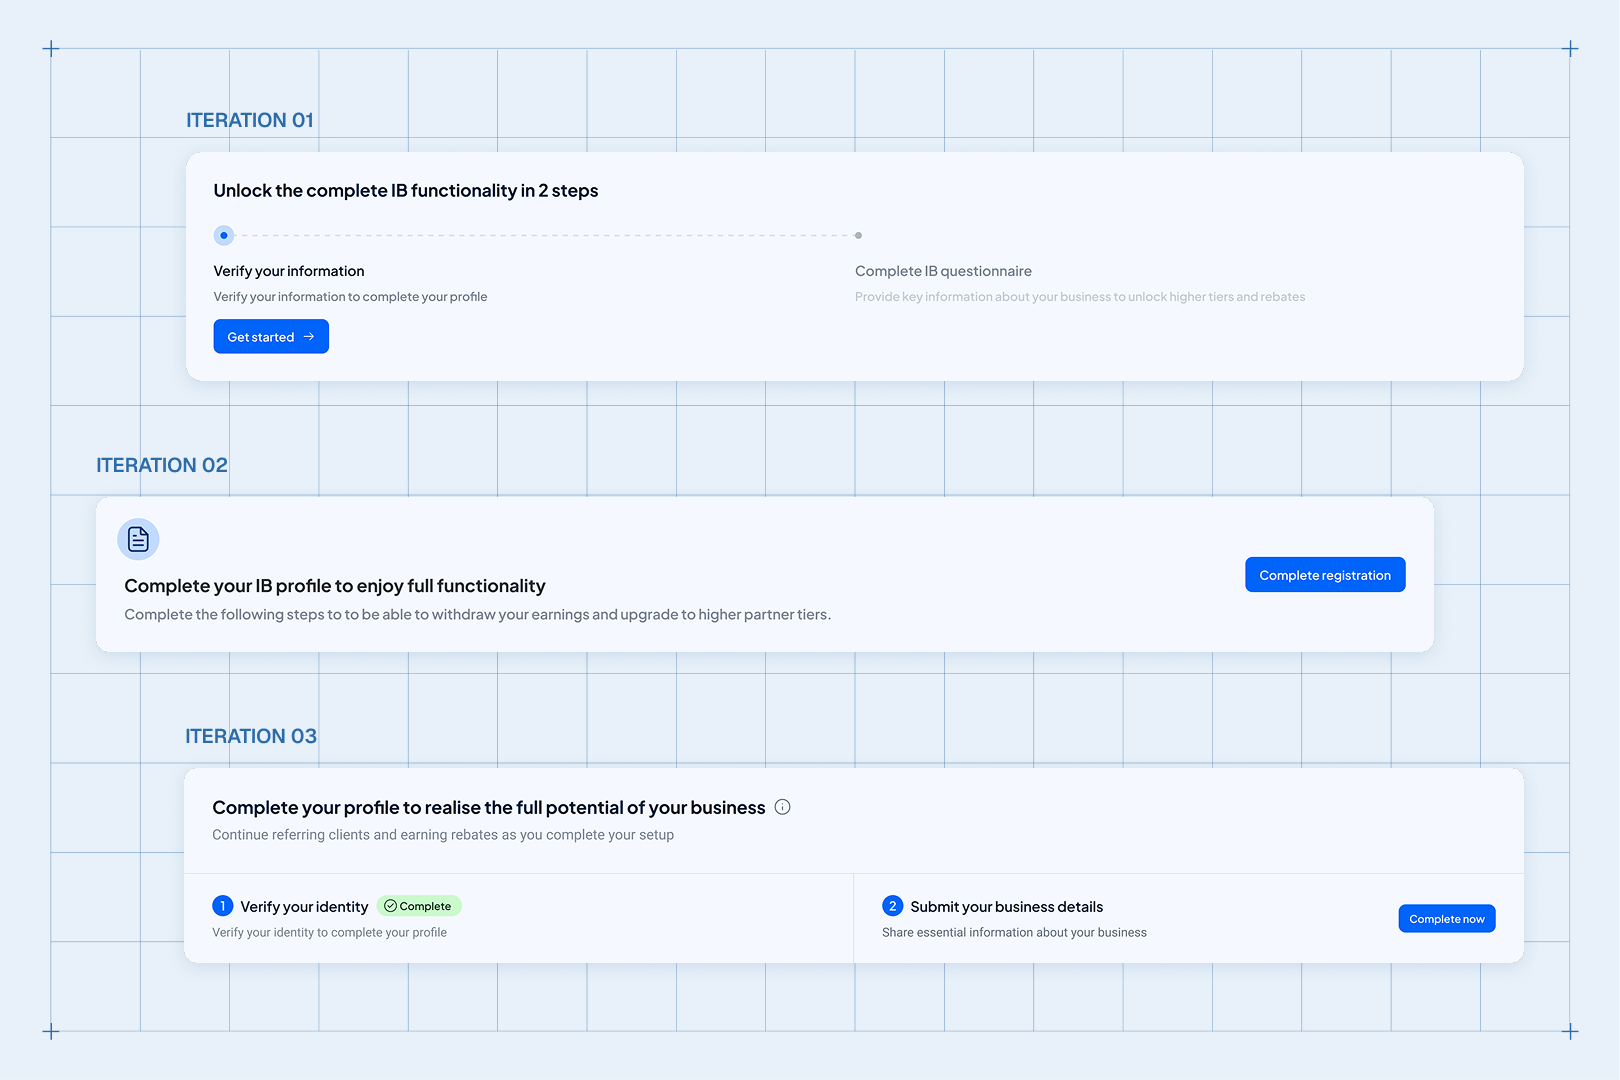
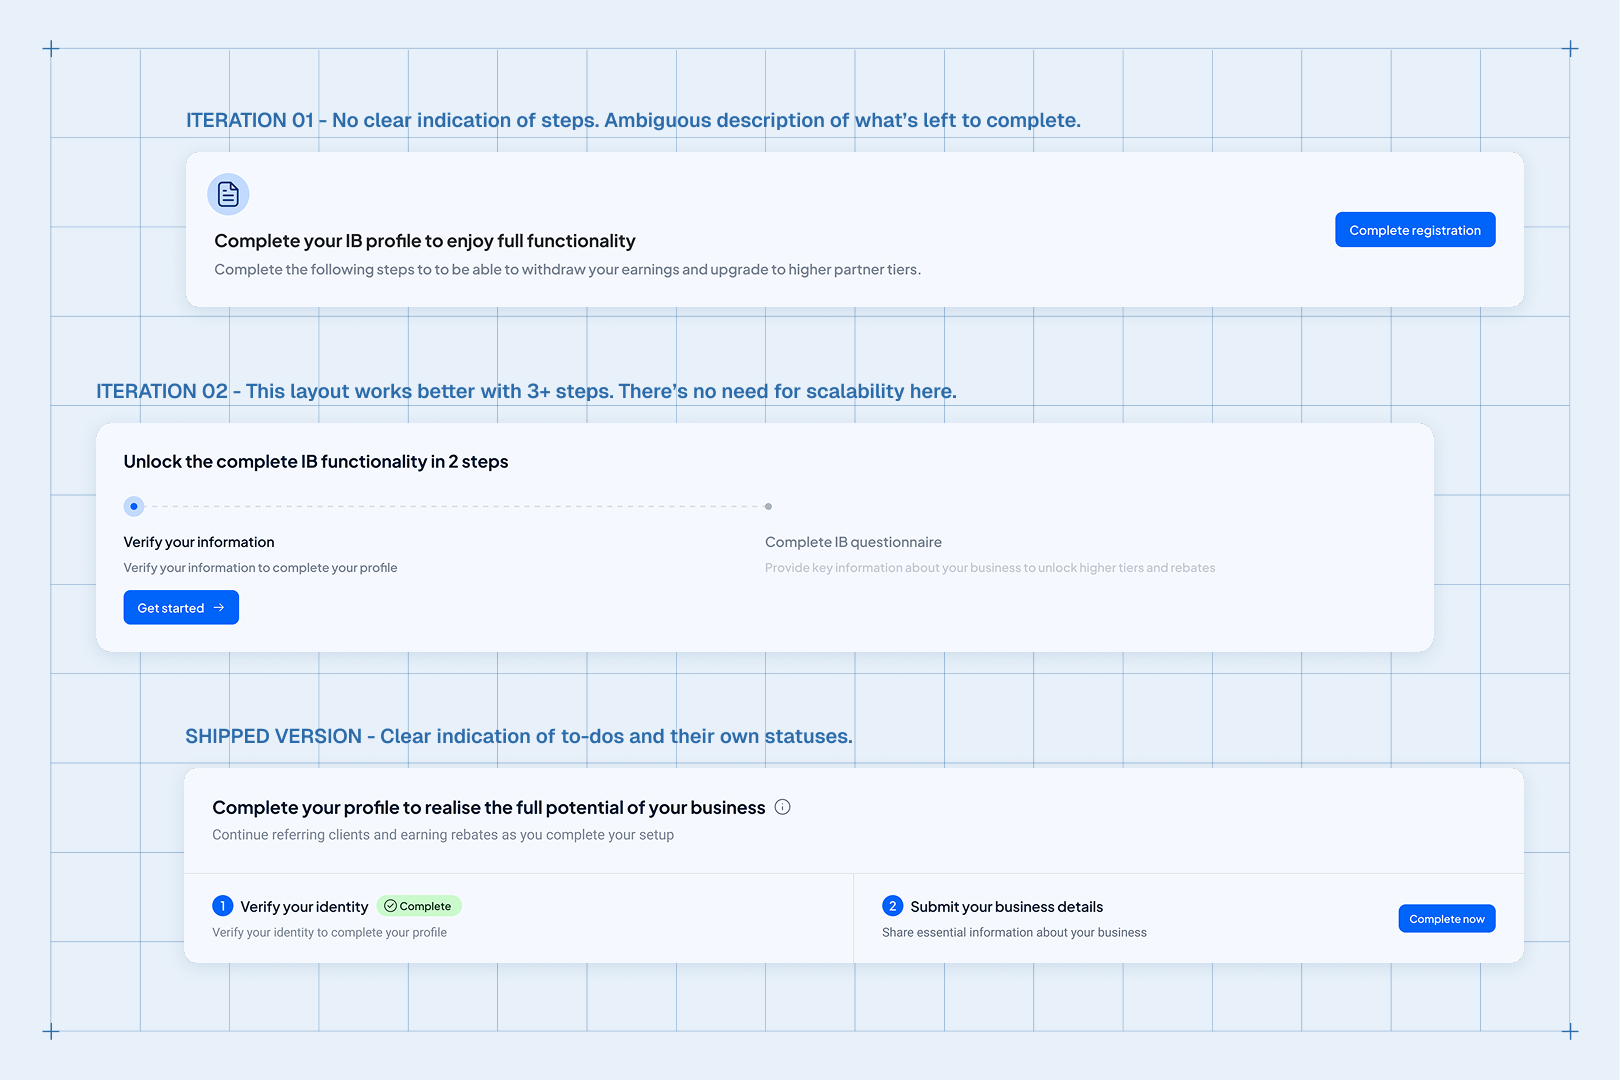
Rewrite the onboarding-widget sub-section with the annotated exploration
Swaps in Gloria's re-exported widget image (each design now labelled with
what was wrong or right about it), replaces the description and caption
with her copy, and drops the "why the first two were dropped" placeholder,
since the labels on the image now carry that reasoning.

Alt text rewritten: the new image orders the designs differently from the
old one (banner is now iteration 01, stepper 02), so the previous
description was in the wrong order. Image URL versioned (?v=2) because the
filename is unchanged and a cached copy would otherwise show the old one.

diff --git a/case-pepperstone.html b/case-pepperstone.html
@@ -405,12 +405,11 @@
 
     <div class="cs-stack" data-reveal>
       <h3 class="cs-h3">The widget that tracks what’s left</h3>
-      <p class="cs-body">Verification is two separate submissions — identity, and the business questionnaire — each asking for a different set of information and each going to its own admin review. So the widget could not be one progress bar: partners needed the two tracked independently, a natural break between them, and a standing list of what was still outstanding.</p>
+      <p class="cs-body">Upon registration, we need an onboarding widget that clearly communicates the next two steps: KYC and the business questionnaire. With each asking for a different set of information and having its own admin review, we split them into distinct steps, each with its own status indicator.</p>
       <figure class="cs-figure cs-figure--plain">
-        <img src="assets/pepperstone/widget-iterations.png" alt="Three iterations of the onboarding widget. One: a two-node stepper headed “Unlock the complete IB functionality in 2 steps” with a get started button. Two: a single collapsed banner reading “Complete your IB profile to enjoy full functionality” with one complete registration button. Three: a two-column to-do list showing “Verify your identity” marked complete and “Submit your business details” with its own complete now button." loading="lazy" decoding="async" width="1620" height="1080">
-        <figcaption class="cs-caption">The third pass is the one that carries through to the shipped screens above: each step keeps its own status and its own call to action, so a partner part-way through can see exactly which half is waiting on them.</figcaption>
+        <img src="assets/pepperstone/widget-iterations.png?v=2" alt="Three annotated designs of the onboarding widget. Iteration 01: a single banner reading “Complete your IB profile to enjoy full functionality” with one complete registration button, criticised for having no clear indication of steps and an ambiguous description of what is left. Iteration 02: a stepper headed “Unlock the complete IB functionality in 2 steps” with a get started button, which works better with three or more steps and has no need to scale here. The shipped version: a two-column to-do list with “Verify your identity” marked complete and “Submit your business details” with its own complete now button, giving a clear indication of to-dos and their own statuses." loading="lazy" decoding="async" width="1620" height="1080">
+        <figcaption class="cs-caption">Design exploration of the onboarding widget</figcaption>
       </figure>
-      <p class="cs-body cs-todo">Why the first two were dropped — to write: the stepper implied the two steps were sequential when they are not, and the collapsed banner hid which half was outstanding. Replace with your own reasoning.</p>
     </div>
   </section>
 
